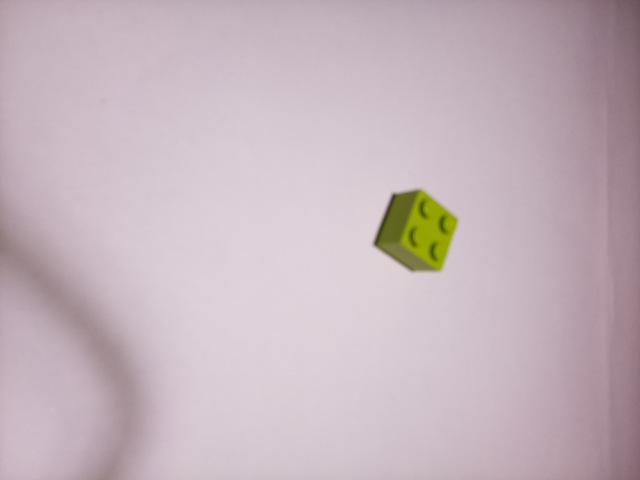
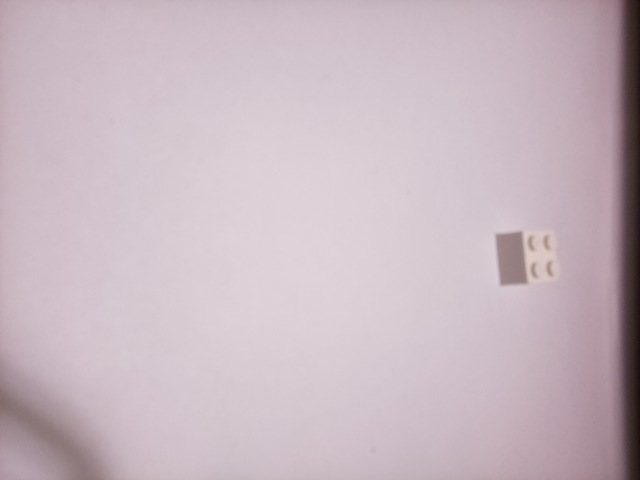
convert update

diff --git a/Raspberry Pi/convert_white.py b/Raspberry Pi/convert_white.py
@@ -2,80 +2,81 @@ import os
 import cv2
 import numpy as np
 
-work_dir = os.path.join('e:', os.sep, 'Files', 'Code', 'Python', 'Projects', 'Lego_Sorter', 'misc')
-input_dir = os.path.join(work_dir, 'photo.jpg')
-output_dir = os.path.join(work_dir, 'output.jpg')
+def white_convert(border_percentage, noise_thresh):
+    input_dir = 'photo.jpg'
+    output_dir = '/home/legopi/Lego_Sorter/Raspberry Pi/Output/output.jpg'
 
-bgr_input = cv2.imread(input_dir)
-hsv_input = cv2.cvtColor(bgr_input, cv2.COLOR_BGR2HSV)
+    bgr_input = cv2.imread(input_dir)
+    hsv_input = cv2.cvtColor(bgr_input, cv2.COLOR_BGR2HSV)
 
-mask = cv2.inRange(hsv_input, np.array([0, 0, 0]), np.array([120, 255, 255]))
+    mask = cv2.inRange(hsv_input, np.array([0, 0, 0]), np.array([30, 255, 255]))
 
-cv2.imshow('mask', mask)
-cv2.waitKey(0)
+    cv2.imshow('mask', mask)
+    cv2.waitKey(0)
 
-contours, hierarchy = cv2.findContours(mask, cv2.RETR_TREE, cv2.CHAIN_APPROX_SIMPLE)
+    contours, hierarchy = cv2.findContours(mask, cv2.RETR_TREE, cv2.CHAIN_APPROX_SIMPLE)
 
-contour_img = bgr_input.copy()
+    contour_img = bgr_input.copy()
 
-cv2.drawContours(contour_img, contours, -1, (0,255,0), 3)
+    cv2.drawContours(contour_img, contours, -1, (0,255,0), 3)
 
-cv2.imshow('contours', contour_img)
-cv2.waitKey(0)
+    cv2.imshow('contours', contour_img)
+    cv2.waitKey(0)
 
-xList = []
-yList = []
-wList = []
-hList = []
+    xList = []
+    yList = []
+    wList = []
+    hList = []
 
 
-for i in contours:
-    x,y,w,h = cv2.boundingRect(i)
-    xList.append(x)
-    yList.append(y)
-    wList.append(w)
-    hList.append(h)
+    for i in contours:
+        x,y,w,h = cv2.boundingRect(i)
+        if w * h > noise_thresh: 
+            xList.append(x)
+            yList.append(y)
+            wList.append(w)
+            hList.append(h)
 
-xListMax = []
-yListMax = []
+    xListMax = []
+    yListMax = []
 
-xLength = len(xList) - 1
-yLength = len(yList) - 1
+    xLength = len(xList) - 1
+    yLength = len(yList) - 1
 
-i = 0
-while i <= xLength:
-    newX = xList[i] + wList[i]
-    xListMax.append(newX)
-    i = i + 1
-i = 0
-while i <= yLength:
-    newY = yList[i] + hList[i]
-    yListMax.append(newY)
-    i = i + 1
-    
-xList.sort()
-yList.sort()
-xListMax.sort()
-yListMax.sort()
+    i = 0
+    while i <= xLength:
+        newX = xList[i] + wList[i]
+        xListMax.append(newX)
+        i = i + 1
+    i = 0
+    while i <= yLength:
+        newY = yList[i] + hList[i]
+        yListMax.append(newY)
+        i = i + 1
+        
+    xList.sort()
+    yList.sort()
+    xListMax.sort()
+    yListMax.sort()
 
-x = xList[0]
-y = yList[0]
-xM = xListMax[-1]
-yM = yListMax[-1]
+    x = xList[0]
+    y = yList[0]
+    xM = xListMax[-1]
+    yM = yListMax[-1]
 
-offsetPercentage = 0
+    offsetPercentage = border_percentage
 
-xOffset = round((xM - x) * offsetPercentage)
-yOffset = round((yM - y) * offsetPercentage)
+    xOffset = round((xM - x) * offsetPercentage)
+    yOffset = round((yM - y) * offsetPercentage)
 
-x = x - xOffset
-y = y - yOffset
-xM = xM + xOffset
-yM = yM + yOffset
+    x = x - xOffset
+    y = y - yOffset
+    xM = xM + xOffset
+    yM = yM + yOffset
 
-img_crop = bgr_input[y:yM, x:xM]
+    img_crop = bgr_input[y:yM, x:xM]
 
-cv2.imshow('cropped', img_crop)
-cv2.waitKey(0)
+    cv2.imshow('cropped', img_crop)
+    cv2.waitKey(0)
 
-cv2.imwrite(output_dir, img_crop)
+    cv2.imwrite(output_dir, img_crop)

diff --git a/Raspberry Pi/detect_part.py b/Raspberry Pi/detect_part.py
@@ -1,8 +1,10 @@
 from convert_image import convert
 from predict import detect_part
+from convert_white import white_convert
 import os
 
 os.system('libcamera-jpeg  -o photo.jpg --width 640 --height 480 --nopreview -t 1')
-convert(0)
+#convert(0)
+white_convert(0, 0)
 part = detect_part()
 print(part)
